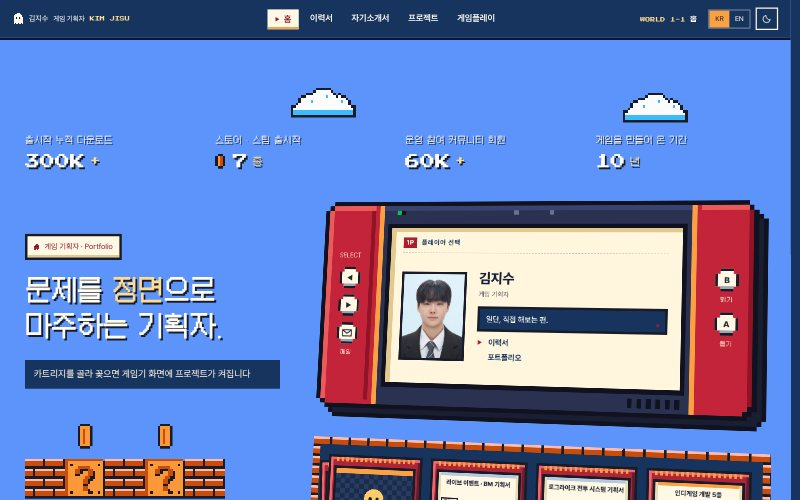
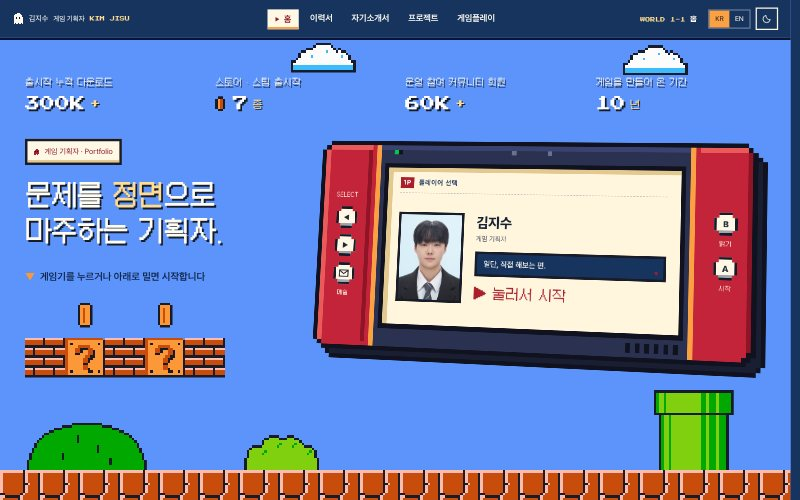
15회차 스테이지 — 홈 = 타이틀 화면, 누르면 게임기가 똑바로 서며 커지고 메뉴 · 카트리지
- 홈(스테이지)은 첫 화면 한 장만: 아래 개요 · 진열판 · 푸터 숨김, 화면 높이에 맞춤, '▶ 눌러서 시작' · 안내 한 줄
- 게임기 누르기 · 아래로 밀기(휠 · 끌기 · 쓸기) · A · ↓ · Enter → 기울기를 풀며 화면 가득 확대(FLIP, 0.98초),
  점수판 · 제목은 흐려지며 사라지고 땅은 따라 내려감
- 게임기 화면 = 페이지 메뉴(이력서 · 자기소개서 · 프로젝트 · 게임플레이 · 연락하기, ▶ 커서, ◀▶/↑↓ · A · B · Esc)
- 아래 진열판에 카트리지가 한 장씩 깔리고, 누르면 커진 게임기에 꽂혀 개요(기존 동작)
- 상태 body[data-lv], 손잡이 키는 window.__lvTitle 에 먼저 물어봄, 모션 최소화면 바로 전환, ko/en
- 회의록 15회차 · CLAUDE.md · 시안 설명(ko/en) · 미리보기 갱신

Claude-Session: https://claude.ai/code/session_01AUp6JzWobjNfSK2Kptzc4x

diff --git a/assets/js/themes/pixel-fc-level.js b/assets/js/themes/pixel-fc-level.js
@@ -111,6 +111,7 @@
   }
   function step(dir) {
     var hero = document.querySelector('.hero.fc-console'); if (!hero) return;
+    if (window.__lvTitle && window.__lvTitle.step(dir)) return;                                       /* 홈 메뉴 화면: 커서 이동 */
     var app = window.PortfolioApp;
     if (hero.querySelector('[data-quip]') && app && app.cycleQuip) { app.cycleQuip(dir); return; }   /* 홈: 한마디 넘기기 */
     var secs = sections(); if (!secs.length) return;                                                  /* 그 밖: 절 이동 */
@@ -121,6 +122,7 @@
   }
   function pressA(kind) {
     if (pending) { if (pending.ready) viewDetail(); return; }        /* 꽂혀 있으면 A = 자세히 보기 */
+    if (window.__lvTitle && window.__lvTitle.a()) return;             /* 홈: 타이틀 = 시작, 메뉴 = 결정 */
     if (kind === 'draw') {
       var deck = document.querySelector('[data-draw]'); if (!deck) return;
       deck.click();
@@ -133,6 +135,7 @@
   }
   function pressB() {
     if (pending) { if (pending.ready) eject(); return; }               /* 꽂혀 있으면 B = 꺼내기 */
+    if (window.__lvTitle && window.__lvTitle.b()) return;             /* 홈 메뉴 화면: B = 처음 화면 */
     var b = document.querySelector('[data-theme-toggle]'); if (b) b.click();
   }
 
@@ -495,6 +498,245 @@
     if (window.MutationObserver) new MutationObserver(update).observe(document.documentElement, { attributes: true, attributeFilter: ['data-skin', 'lang'] });
     window.addEventListener('resize', update);
     if (document.fonts && document.fonts.ready) document.fonts.ready.then(update);
+  }
+  if (document.readyState === 'loading') document.addEventListener('DOMContentLoaded', init); else init();
+})();
+
+/* 15회차 — 홈 = 타이틀 화면. 아래 내용 · 진열판 없이 첫 화면만 두고,
+   게임기를 누르거나 · 아래로 밀거나(휠 · 끌기 · 쓸기) · A · ↓ 를 누르면 기울어 있던 게임기가 똑바로 서며 화면 가득 커지고,
+   게임기 화면에는 페이지 메뉴, 그 아래에는 카트리지(프로젝트 카드)가 놓입니다. B · Esc · 맨 위에서 위로 밀기 = 타이틀로.
+   상태는 body[data-lv="title" | "menu"] 하나(언어 전환으로 main 이 다시 그려져도 유지), 그림은 pixel-fc-folio.css 의 15회차 절.
+   크기가 커지는 연출은 판(.fcs-rig)의 처음 · 나중 상자를 재서 되돌려 그리는 방식(FLIP)이라 글자는 늘 실제 크기로 선명합니다. */
+(function () {
+  'use strict';
+  var SKIN = 'pixel-fc-level';
+  var T = {
+    start:  { ko: '눌러서 시작', en: 'PRESS START' },
+    hint:   { ko: '게임기를 누르거나 아래로 밀면 시작합니다', en: 'Press the console or scroll down to start' },
+    menu:   { ko: '메뉴', en: 'MENU' },
+    title:  { ko: '플레이어 선택', en: 'PLAYER SELECT' },
+    keys:   { ko: '◀ ▶ 고르기 · A 결정 · B 처음 화면', en: '◀ ▶ select · A enter · B title' },
+    navA:   { ko: '페이지 메뉴', en: 'Page menu' },
+    powerA: { ko: '게임기 켜기 — 메뉴 열기', en: 'Power on — open the menu' },
+    goL:    { ko: '시작', en: 'Start' },
+    pickL:  { ko: '결정', en: 'Enter' },
+    pickA:  { ko: '고른 메뉴로 가기', en: 'Open the selected page' },
+    backL:  { ko: '처음', en: 'Title' },
+    backA:  { ko: '처음 화면으로', en: 'Back to the title screen' },
+    lightL: { ko: '밝기', en: 'Light' },
+    lightA: { ko: '다크 · 라이트 전환', en: 'Toggle dark mode' },
+    mail:   { ko: '연락하기', en: 'Contact' },
+    desc: {
+      'resume.html':       { ko: '경력 · 핵심역량 · 인적사항', en: 'Career, skills and profile' },
+      'cover-letter.html': { ko: '함께 일하면 어떤 기획자인지', en: 'What I am like to work with' },
+      'projects.html':     { ko: '게임 · 기획 프로젝트 전체', en: 'Every game and design project' },
+      'play.html':         { ko: '장르별 플레이 기록', en: 'What I play, by genre' }
+    }
+  };
+  var ID = 'matrix3d(1,0,0,0,0,1,0,0,0,0,1,0,0,0,0,1)';
+  var sel = 0, busy = false;
+
+  function lang() {
+    var v = window.PortfolioApp && window.PortfolioApp.getLang ? window.PortfolioApp.getLang() : document.documentElement.getAttribute('lang');
+    return v === 'en' ? 'en' : 'ko';
+  }
+  function t(o) { return (o && (o[lang()] || o.ko)) || ''; }
+  function esc(s) { return String(s).replace(/&/g, '&amp;').replace(/</g, '&lt;').replace(/"/g, '&quot;'); }
+  function reduced() { return !!(window.matchMedia && matchMedia('(prefers-reduced-motion: reduce)').matches); }
+  function on() { return document.documentElement.getAttribute('data-skin') === SKIN && document.body.getAttribute('data-page') === 'home' && !!document.querySelector('.home-screen .fcs-rig .hero'); }
+  function state() { return document.body.getAttribute('data-lv'); }
+  function rig() { return document.querySelector('.home-screen .fcs-rig'); }
+  function items() { return Array.prototype.slice.call(document.querySelectorAll('.lv-msel .lv-mi')); }
+  function inserted() { return !!document.querySelector('.fc-fly, .fc-boot'); }
+
+  /* 게임기 화면에 붙는 것: 타이틀의 '눌러서 시작', 메뉴 화면의 페이지 목록 · 키 안내 */
+  function build() {
+    var info = document.querySelector('.home-screen .fcs-info'); if (!info) return;
+    if (!info.querySelector('.lv-start')) {
+      var st = document.createElement('p'); st.className = 'lv-start'; st.setAttribute('aria-hidden', 'true');
+      info.appendChild(st);
+    }
+    info.querySelector('.lv-start').textContent = '▶ ' + t(T.start);
+    var nav = info.querySelector('.lv-msel');
+    if (!nav) { nav = document.createElement('nav'); nav.className = 'lv-msel'; info.appendChild(nav); }
+    var rows = [];
+    Array.prototype.forEach.call(document.querySelectorAll('.nav__menu .nav__link'), function (a) {
+      var href = a.getAttribute('href') || '', file = href.split('/').pop().split('?')[0];
+      if (!T.desc[file]) return;   /* 홈은 빼고 */
+      rows.push({ href: href, label: a.textContent.trim(), desc: t(T.desc[file]) });
+    });
+    var c = window.PORTFOLIO_CONTENT || {}, mail = ((c.meta && c.meta.email) || '').trim();
+    if (mail) rows.push({ href: 'mailto:' + mail, label: t(T.mail), desc: mail });
+    nav.setAttribute('aria-label', t(T.navA));
+    nav.innerHTML = '<ol>' + rows.map(function (r, i) {
+      return '<li><a class="lv-mi" href="' + esc(r.href) + '" data-i="' + i + '"><b class="lv-mi__t">' + esc(r.label) + '</b><span class="lv-mi__d">' + esc(r.desc) + '</span></a></li>';
+    }).join('') + '</ol><p class="lv-msel__keys" aria-hidden="true">' + esc(t(T.keys)) + '</p>';
+    sel = Math.min(sel, rows.length - 1);
+    mark();
+    var intro = document.querySelector('.home-screen .fcs-intro');
+    if (intro) {
+      var hint = intro.querySelector('.lv-hint');
+      if (!hint) { hint = document.createElement('p'); hint.className = 'lv-hint'; intro.appendChild(hint); }
+      hint.textContent = t(T.hint);
+    }
+  }
+  function mark() {
+    items().forEach(function (a, i) { a.parentNode.classList.toggle('is-sel', i === sel); });
+  }
+  function label(which, text, aria) {
+    var l = document.querySelector('[data-fc-lbl="' + which + '"]'), k = document.querySelector(which === 'a' ? '[data-fc-a]' : '[data-fc-b]');
+    if (l) { l.textContent = text; l.setAttribute('data-orig', text); }   /* 카트리지를 뺄 때 이 글자로 돌아오도록 data-orig 도 */
+    if (k) k.setAttribute('aria-label', aria);
+  }
+  /* 상태에 맞춰 글자 · 접근성 속성을 맞춤 (그림은 CSS) */
+  function apply() {
+    var st = state(), hero = document.querySelector('.home-screen .fcs-rig .hero');
+    var bar = document.querySelector('.home-screen .gui-scr__t');
+    if (bar) bar.textContent = t(st === 'menu' ? T.menu : T.title);
+    if (hero) {
+      if (st === 'title') { hero.setAttribute('tabindex', '0'); hero.setAttribute('role', 'button'); hero.setAttribute('aria-label', t(T.powerA)); }
+      else { hero.removeAttribute('tabindex'); hero.removeAttribute('role'); hero.removeAttribute('aria-label'); }
+    }
+    if (st === 'menu') { label('a', t(T.pickL), t(T.pickA)); label('b', t(T.backL), t(T.backA)); }
+    else { label('a', t(T.goL), t(T.powerA)); label('b', t(T.lightL), t(T.lightA)); }
+    var nav = document.querySelector('.nav-wrap') || document.querySelector('.nav');   /* 위에 붙은 상단바 높이 — 첫 화면을 한 화면에 맞추는 데 씀 */
+    document.documentElement.style.setProperty('--lv-nav', (nav ? Math.round(nav.getBoundingClientRect().height) : 64) + 'px');
+  }
+
+  /* 판의 실제 상자(기울기를 뺀) */
+  function box(el) { var keep = el.style.transform; el.style.transform = 'none'; var r = el.getBoundingClientRect(); el.style.transform = keep; return r; }
+  function go(next) {
+    if (busy || state() === next || inserted()) return;
+    var r = rig(); if (!r) return;
+    var anim = !reduced() && !!r.animate && window.innerWidth >= 900;
+    window.scrollTo(0, 0);
+    var oldT = getComputedStyle(r).transform, before = box(r), origin = getComputedStyle(r).transformOrigin.split(' ').map(parseFloat);
+    /* 메뉴로 갈 때 사라지는 점수판 · 제목은 그 자리에 붙잡아 두고 흐리게(아래 판이 위로 당겨져도 튀지 않게) */
+    var pinned = [], fades = [];
+    if (anim && next === 'menu') {
+      Array.prototype.forEach.call(document.querySelectorAll('.home-screen > .lv-hud, .home-screen .fcs-intro'), function (el) {
+        var b = el.getBoundingClientRect();
+        el.style.cssText += ';position:fixed;left:' + b.left + 'px;top:' + b.top + 'px;width:' + b.width + 'px;margin:0;z-index:0;display:' + getComputedStyle(el).display;
+        pinned.push(el);
+      });
+    }
+    document.body.classList.add('lv-moving');
+    document.body.setAttribute('data-lv', next);
+    apply();
+    var done = function () {
+      busy = false;
+      pinned.forEach(function (el) { ['position', 'left', 'top', 'width', 'margin', 'z-index', 'display'].forEach(function (k) { el.style.removeProperty(k); }); });
+      fades.forEach(function (f) { f.cancel(); });
+      document.body.classList.remove('lv-moving');
+      if (next === 'menu') {
+        var deck = document.querySelector('[data-draw]'); if (deck) deck.click();   /* 카트리지를 한 장씩 깔아 놓음 */
+        var first = items()[sel]; if (first) { try { first.focus({ preventScroll: true }); } catch (e) {} }
+      } else {
+        var h = document.querySelector('.home-screen .fcs-rig .hero'); if (h) { try { h.focus({ preventScroll: true }); } catch (e) {} }
+      }
+    };
+    if (!anim) { done(); return; }
+    busy = true;
+    var newT = getComputedStyle(r).transform, after = box(r);
+    /* 처음 상자의 기준점(transform-origin)이 나중 상자의 기준점에 오도록 옮기고, 폭 비율만큼 줄여 처음 모습에서 출발 */
+    var fx = origin[0] / after.width, fy = origin[1] / after.height;
+    var dx = (before.left + before.width * fx) - (after.left + after.width * fx);
+    var dy = (before.top + before.height * fy) - (after.top + after.height * fy);
+    var s = before.width / after.width;
+    var a = r.animate([
+      { transform: 'translate(' + dx + 'px,' + dy + 'px) scale(' + s + ') ' + (oldT === 'none' ? ID : oldT) },
+      { transform: 'translate(0px,0px) scale(1) ' + (newT === 'none' ? ID : newT) }
+    ], { duration: 980, easing: 'cubic-bezier(.65,0,.35,1)' });   /* 천천히 들어 올려 똑바로 세운 뒤 내려놓듯 */
+    if (next === 'menu') pinned.forEach(function (el) { fades.push(el.animate([{ opacity: 1, translate: '0 0' }, { opacity: 0, translate: '0 -24px' }], { duration: 360, easing: 'ease-in', fill: 'forwards' })); });
+    a.onfinish = a.oncancel = done;
+  }
+  function move(dir) {
+    var list = items(); if (!list.length) return;
+    sel = (sel + dir + list.length) % list.length; mark();
+    try { list[sel].focus({ preventScroll: true }); } catch (e) {}
+  }
+
+  /* 기존 손잡이 키(pixel-fc-level.js 위쪽)가 먼저 물어봄 — 처리했으면 true */
+  window.__lvTitle = {
+    step: function (dir) { if (!on() || state() !== 'menu') return false; move(dir); return true; },
+    a: function () {
+      if (!on()) return false;
+      if (state() === 'title') { go('menu'); return true; }
+      var it = items()[sel]; if (it) it.click(); return true;
+    },
+    b: function () { if (!on() || state() !== 'menu') return false; go('title'); return true; }
+  };
+
+  /* 게임기 누르기(손잡이 키 · 메일 키는 제 기능 그대로) */
+  document.addEventListener('click', function (e) {
+    if (!on() || state() !== 'title' || !e.target.closest) return;
+    var hero = e.target.closest('.home-screen .fcs-rig .hero'); if (!hero) return;
+    if (e.target.closest('.fc-key, .fc-ab, .fc-grip a')) return;
+    e.preventDefault(); e.stopPropagation(); go('menu');
+  }, true);
+  document.addEventListener('mouseover', function (e) {
+    if (!on() || state() !== 'menu' || !e.target.closest) return;
+    var a = e.target.closest('.lv-mi'); if (a) { sel = +a.getAttribute('data-i') || 0; mark(); }
+  });
+  document.addEventListener('focusin', function (e) {
+    var a = e.target.closest && e.target.closest('.lv-mi'); if (a) { sel = +a.getAttribute('data-i') || 0; mark(); }
+  });
+  document.addEventListener('keydown', function (e) {
+    if (!on() || e.altKey || e.ctrlKey || e.metaKey || inserted()) return;
+    var tag = (e.target.tagName || '').toLowerCase(); if (tag === 'input' || tag === 'textarea' || tag === 'select') return;
+    var st = state(), onHero = e.target.closest && e.target.closest('.home-screen .fcs-rig .hero');
+    if (st === 'title') {
+      if (e.key === 'ArrowDown' || e.key === 'PageDown' || ((e.key === 'Enter' || e.key === ' ') && (onHero || e.target === document.body))) { e.preventDefault(); go('menu'); }
+      return;
+    }
+    if (e.key === 'Escape') { e.preventDefault(); go('title'); return; }
+    var inMenu = e.target.closest && e.target.closest('.lv-msel');
+    if (inMenu || e.target === document.body) {
+      if (e.key === 'ArrowDown' || e.key === 'ArrowRight') { e.preventDefault(); move(1); }
+      else if (e.key === 'ArrowUp' || e.key === 'ArrowLeft') { e.preventDefault(); move(-1); }
+    }
+  });
+  /* 아래로 밀기: 휠 · 손가락 쓸기 · 마우스 끌기. 타이틀은 페이지 맨 아래(보통 한 화면이라 곧바로)에서만, 메뉴 → 타이틀은 맨 위에서 위로 밀 때만 */
+  function atBottom() { return window.scrollY + window.innerHeight >= document.documentElement.scrollHeight - 2; }
+  window.addEventListener('wheel', function (e) {
+    if (!on() || inserted()) return;
+    if (busy) { e.preventDefault(); return; }
+    if (state() === 'title' && e.deltaY > 6 && atBottom()) { e.preventDefault(); go('menu'); }
+    else if (state() === 'menu' && e.deltaY < -6 && window.scrollY <= 0) { e.preventDefault(); go('title'); }
+  }, { passive: false });
+  var ty = null, tb = false;
+  window.addEventListener('touchstart', function (e) { if (on() && state() === 'title') { ty = e.touches[0].clientY; tb = atBottom(); } }, { passive: true });
+  window.addEventListener('touchend', function (e) {
+    if (ty === null || !on()) return;
+    var dy = ty - (e.changedTouches[0] || {}).clientY; ty = null;
+    if (state() === 'title' && tb && dy > 50) go('menu');
+  }, { passive: true });
+  var py = null;
+  document.addEventListener('pointerdown', function (e) {
+    if (e.pointerType !== 'mouse' || !on() || state() !== 'title' || !e.target.closest || !e.target.closest('.home-screen')) return;
+    if (e.target.closest('a, button, input')) return;
+    py = e.clientY;
+  });
+  document.addEventListener('pointerup', function (e) {
+    if (py === null) return; var dy = py - e.clientY; py = null;
+    if (dy > 60 && on() && state() === 'title') go('menu');
+  });
+
+  function scan() {
+    if (!on()) { document.body.removeAttribute('data-lv'); return; }
+    if (!state()) document.body.setAttribute('data-lv', 'title');
+    build(); apply();
+  }
+  var queued = false;
+  function later() { if (queued) return; queued = true; requestAnimationFrame(function () { queued = false; scan(); }); }
+  function init() {
+    scan();
+    var main = document.querySelector('[data-slot="main"]');
+    if (main && window.MutationObserver) new MutationObserver(later).observe(main, { childList: true });
+    var navs = document.querySelector('[data-slot="nav"]');
+    if (navs && window.MutationObserver) new MutationObserver(later).observe(navs, { childList: true });
+    if (window.MutationObserver) new MutationObserver(later).observe(document.documentElement, { attributes: true, attributeFilter: ['data-skin', 'lang'] });
+    window.addEventListener('resize', apply);
   }
   if (document.readyState === 'loading') document.addEventListener('DOMContentLoaded', init); else init();
 })();

diff --git a/assets/css/themes/pixel-fc-folio.css b/assets/css/themes/pixel-fc-folio.css
@@ -770,6 +770,86 @@
   :root[data-skin-theme="pixel"][data-skin="pixel-fc-level"] main > .fcs-stage::after { background-position: 0 100%, 100% 100%; }
 }
 
+/* ── 15회차: 홈 = 타이틀 화면 → 게임기가 똑바로 서며 커지는 메뉴 화면 ──────────────
+   상태는 pixel-fc-level.js 맨 아래 블록이 body[data-lv] 에 적습니다(홈에서만).
+     title : 첫 화면 한 장(점수판 · 제목 · 기울어진 게임기 · 지면). 아래 내용 · 진열판 · 푸터 없음. 게임기 화면에 '눌러서 시작'.
+     menu  : 제목 · 점수판은 사라지고 게임기가 기울기 없이 화면 가득, 화면에 페이지 메뉴, 그 아래 카트리지 진열판.
+   크기 · 기울기 변화는 JS 가 판(.fcs-rig)을 FLIP 으로 움직이고, CSS 는 두 상태의 최종 모습만 정합니다. */
+@property --lv-surface { syntax: '<length>'; inherits: true; initial-value: 620px; }
+:root[data-skin-theme="pixel"][data-skin="pixel-fc-level"] body[data-lv] main { padding-top: var(--lv-nav, 64px); padding-bottom: 128px; transition: --lv-surface .98s cubic-bezier(.65,0,.35,1); }
+:root[data-skin-theme="pixel"][data-skin="pixel-fc-level"] body[data-lv] main::after { content: none; }
+:root[data-skin-theme="pixel"][data-skin="pixel-fc-level"] body[data-lv] :is(.lv-menu, .footer) { display: none; }
+:root[data-skin-theme="pixel"][data-skin="pixel-fc-level"] body[data-lv] .home-screen { display: flex; flex-direction: column; min-height: calc(100svh - var(--lv-nav, 64px) - 128px); }
+/* 한 화면에 들어가도록 첫 화면 여백을 줄임(점수판 · 판 · 제목 칸) — 구름은 점수판 위 띠에 */
+:root[data-skin-theme="pixel"][data-skin="pixel-fc-level"] body[data-lv] .home-screen > .lv-hud { padding-top: 60px; }
+:root[data-skin-theme="pixel"][data-skin="pixel-fc-level"] body[data-lv] .home-screen::before { background-position: 40% 4px, 86% 8px; }
+:root[data-skin-theme="pixel"][data-skin="pixel-fc-level"] body[data-lv="title"] .fcs-stage--home { padding: 12px 0 20px; }
+@media (min-width: 900px) {
+  :root[data-skin-theme="pixel"][data-skin="pixel-fc-level"] body[data-lv="title"] .fcs-intro { padding-top: 8px; }
+  :root[data-skin-theme="pixel"][data-skin="pixel-fc-level"] body[data-lv="title"] .fcs-stage--home .fcs-intro::after { margin-top: 28px; }
+}
+:root[data-skin-theme="pixel"][data-skin="pixel-fc-level"] body[data-lv] .home-screen::after { transition: opacity .3s .1s; }
+:root[data-skin-theme="pixel"][data-skin="pixel-fc-level"] body.lv-moving .home-screen::after { opacity: 0; transition: none; }
+:root[data-skin-theme="pixel"][data-skin="pixel-fc-level"] body[data-lv] .home-screen > .fcs-stage { margin-block: auto; }
+
+/* 타이틀 */
+:root[data-skin-theme="pixel"][data-skin="pixel-fc-level"] body[data-lv="title"] .fcs-rig > .draw,
+:root[data-skin-theme="pixel"][data-skin="pixel-fc-level"] body[data-lv="title"] .fcs-intro .fcs-caption,
+:root[data-skin-theme="pixel"][data-skin="pixel-fc-level"] body[data-lv="title"] .fcs-info :is(.btn-row, .quip__more) { display: none; }
+:root[data-skin-theme="pixel"][data-skin="pixel-fc-level"] body[data-lv] .fcs-intro { transition: opacity .35s .25s, visibility 0s 0s; }
+:root[data-skin-theme="pixel"][data-skin="pixel-fc-level"] body[data-lv="title"] .fcs-rig > .hero { cursor: pointer; transition: translate .2s steps(2, end); }
+:root[data-skin-theme="pixel"][data-skin="pixel-fc-level"] body[data-lv="title"] .fcs-rig > .hero:is(:hover, :focus-visible) { translate: 0 -8px; }
+:root[data-skin-theme="pixel"][data-skin="pixel-fc-level"] body[data-lv="title"] .fcs-rig > .hero:focus-visible { outline: 4px solid #fc9838; outline-offset: 6px; }
+:root[data-skin-theme="pixel"][data-skin="pixel-fc-level"] .lv-start, :root[data-skin-theme="pixel"][data-skin="pixel-fc-level"] .lv-msel { display: none; }
+:root[data-skin-theme="pixel"][data-skin="pixel-fc-level"] body[data-lv="title"] .lv-start {
+  display: block; margin: 14px 0 0; font: 400 22px/1.3 'Galmuri11', var(--font-display); letter-spacing: 0; color: var(--gui-scr-cursor);
+  animation: gui-blink 1.1s steps(1, end) infinite;
+}
+:root[data-skin-theme="pixel"][data-skin="pixel-fc-level"] .lv-hint { margin: 28px 0 0; font: 600 16px/1.6 var(--font-sans); letter-spacing: 0; color: var(--gui-sky-ink); }
+:root[data-skin-theme="pixel"][data-skin="pixel-fc-level"] .lv-hint::before { content: '▼' / ''; display: inline-block; margin-right: 8px; color: #fc9838; animation: gui-bob 1s steps(2, end) infinite; }
+:root[data-skin-theme="pixel"][data-skin="pixel-fc-level"] body[data-lv="menu"] .lv-hint { display: none; }
+@media (min-width: 900px) {
+  :root[data-skin-theme="pixel"][data-skin="pixel-fc-level"] body[data-lv="title"] .fcs-stage--home { align-items: center; }
+}
+
+/* 메뉴 화면 */
+:root[data-skin-theme="pixel"][data-skin="pixel-fc-level"] body[data-lv="menu"] .home-screen > .lv-hud { display: none; }
+:root[data-skin-theme="pixel"][data-skin="pixel-fc-level"] body[data-lv="menu"] .fcs-stage--home { display: block; width: 100%; max-width: none; padding: 24px 0 40px; margin-block: 0; }
+:root[data-skin-theme="pixel"][data-skin="pixel-fc-level"] body[data-lv="menu"] .fcs-intro {
+  position: absolute; top: 0; left: max(var(--gutter), calc((100% - var(--folio-max)) / 2)); width: min(40%, 460px);
+  opacity: 0; visibility: hidden; pointer-events: none; transition: opacity .25s, visibility 0s .25s;
+}
+:root[data-skin-theme="pixel"][data-skin="pixel-fc-level"] body[data-lv="menu"] .fcs-rig { margin-inline: auto; }
+@media (min-width: 900px) {
+  :root[data-skin-theme="pixel"][data-skin="pixel-fc-level"] body[data-lv="menu"] .fcs-rig { transform: none; width: min(92vw, calc((100svh - var(--lv-nav, 64px) - 56px) * 1.48), 1380px); }
+}
+:root[data-skin-theme="pixel"][data-skin="pixel-fc-level"] body[data-lv="menu"] .fcs-rig > .draw { width: min(100%, 820px); margin: 40px auto 0; animation: lv-tray-in .45s .85s both; }
+@keyframes lv-tray-in { from { opacity: 0; translate: 0 40px; } to { opacity: 1; translate: 0 0; } }
+:root[data-skin-theme="pixel"][data-skin="pixel-fc-level"] body[data-lv="menu"] .fcs-info :is(.quip, .quip__more, .btn-row, .lv-start, .portrait__cap) { display: none; }   /* 이름은 화면 머리띠 · 상단바에 있으니 메뉴에 자리를 줌 */
+:root[data-skin-theme="pixel"][data-skin="pixel-fc-level"] body[data-lv="menu"] .lv-msel { display: block; margin-top: 0; animation: lv-screen-on .32s steps(4, end) both; }
+@keyframes lv-screen-on { 0% { opacity: 0; } 50% { opacity: .4; } 75% { opacity: .15; } 100% { opacity: 1; } }
+:root[data-skin-theme="pixel"][data-skin="pixel-fc-level"] .lv-msel ol { display: grid; gap: 4px; margin: 0; padding: 0; list-style: none; }
+:root[data-skin-theme="pixel"][data-skin="pixel-fc-level"] .lv-msel li { position: relative; margin: 0; padding: 0 0 0 30px; }
+:root[data-skin-theme="pixel"][data-skin="pixel-fc-level"] .lv-msel li.is-sel::before {
+  content: '▶' / ''; position: absolute; left: 4px; top: 6px; font: 400 16px/1 var(--font-sans); color: var(--gui-scr-cursor);
+  animation: gui-blink 1.1s steps(1, end) infinite;
+}
+:root[data-skin-theme="pixel"][data-skin="pixel-fc-level"] .lv-mi { display: flex; flex-wrap: wrap; align-items: baseline; gap: 2px 14px; padding: 2px 0; color: var(--gui-scr-ink); text-decoration: none; }
+:root[data-skin-theme="pixel"][data-skin="pixel-fc-level"] .lv-mi__t { font: 400 28px/1.25 var(--font-display); letter-spacing: 0; }   /* Galmuri14 = 14 의 배수 */
+:root[data-skin-theme="pixel"][data-skin="pixel-fc-level"] .lv-mi__d { font: 500 15px/1.4 var(--font-sans); letter-spacing: 0; color: color-mix(in srgb, var(--gui-scr-ink) 72%, transparent); }
+:root[data-skin-theme="pixel"][data-skin="pixel-fc-level"] .lv-msel li.is-sel .lv-mi__t { color: var(--gui-scr-cursor); }
+:root[data-skin-theme="pixel"][data-skin="pixel-fc-level"] .lv-mi:focus-visible { outline: 3px dashed var(--gui-scr-cursor); outline-offset: 3px; }
+:root[data-skin-theme="pixel"][data-skin="pixel-fc-level"] .lv-msel__keys { margin: 12px 0 0; padding-top: 10px; border-top: 2px dashed var(--gui-scr-rule); font: 600 13px/1.4 var(--font-sans); letter-spacing: .02em; color: var(--gui-scr-ink); }
+@media (max-width: 899px) {
+  :root[data-skin-theme="pixel"][data-skin="pixel-fc-level"] .lv-mi__t { font: 400 22px/1.3 'Galmuri11', var(--font-display); }
+  :root[data-skin-theme="pixel"][data-skin="pixel-fc-level"] .lv-mi__d { font-size: 13px; }
+  :root[data-skin-theme="pixel"][data-skin="pixel-fc-level"] body[data-lv="title"] .lv-start { font-size: 22px; }
+}
+@media (prefers-reduced-motion: reduce) {
+  :root[data-skin-theme="pixel"][data-skin="pixel-fc-level"] body[data-lv] :is(.lv-start, .lv-msel li.is-sel)::before, :root[data-skin-theme="pixel"][data-skin="pixel-fc-level"] body[data-lv="title"] .lv-start, :root[data-skin-theme="pixel"][data-skin="pixel-fc-level"] .lv-hint::before { animation: none; }
+  :root[data-skin-theme="pixel"][data-skin="pixel-fc-level"] body[data-lv="menu"] :is(.fcs-rig > .draw, .lv-msel) { animation: none; }
+}
+
 /* ============================================================================
    랠리 프린트 (pixel-fc-rally) — 빨강 8px 윗띠 + 검은 2px 테 + 노랑 판화 그림자의 인쇄 판,
    이름표 = 사선으로 자른 검은 판(글자는 곧게) + 노랑 줄 · 업적 태그 = 검은 칩 · 구분선 = 가는 인쇄 선

diff --git a/assets/js/themes.js b/assets/js/themes.js
@@ -125,8 +125,8 @@
           fonts: [G + 'Black+Han+Sans&family=Do+Hyeon'],
           swatch: ['#c9a678', '#f3ead6', '#a3203a', '#1d1d1b'] },
         { id: 'fc-level', name: { ko: '패미컴 · 스테이지', en: 'Famicom · Stage' },
-          desc: { ko: '참고 그림 ⑩. 슈퍼 마리오 브라더스 1-1 · 1-2 의 그림 문법(원작 팔레트 묶음 · 같은 칸 크기 · 검은 외곽선)을 따른 한 스테이지 — 화면 맨 위 점수판, 구름 · 떠 있는 물음표 블록, 땅 블록 지면 위 언덕 · 덤불 · 관, 그 아래 검은 지하의 메뉴 화면 창과 파란 지하 땅 블록 바닥.',
-                  en: 'Reference ⑩: one stage following the visual grammar of Super Mario Bros. 1-1 and 1-2 (the original palette groups, one pixel size, black outlines) — a score HUD across the top, clouds and floating question blocks, hills, bushes and a pipe on ground blocks, then pause-menu windows in a black underground over a blue underground-block floor.' },
+          desc: { ko: '참고 그림 ⑩. 슈퍼 마리오 브라더스 1-1 · 1-2 의 그림 문법을 따른 한 스테이지. 홈은 타이틀 화면 한 장 — 게임기를 누르거나 아래로 밀면 기울었던 게임기가 똑바로 서며 화면 가득 커지고, 화면에 페이지 메뉴 · 그 아래 카트리지가 놓입니다.',
+                  en: 'Reference ⑩: one stage following the visual grammar of Super Mario Bros. 1-1 and 1-2. Home is a single title screen — press the console or scroll down and the tilted console straightens and zooms to fill the screen, showing a page menu with cartridges laid out below.' },
           scripts: ['js/themes/pixel-fc-level.js', 'js/themes/fc-stage.js', 'js/themes/fc-body.js'],
           css: ['css/themes/pixel-fc-folio.css'],
           swatch: ['#5c94fc', '#c84c0c', '#fca044', '#00a800'] },

diff --git a/CLAUDE.md b/CLAUDE.md
@@ -85,7 +85,7 @@
   랠리 = 빨강 8px 윗띠 + 검은 2px 테 + 노랑 판화 그림자 · 사선으로 자른 검은 이름표 + 노랑 줄 · 업적 태그는 검은 칩.
 - **스테이지 땅 위 · 땅 밑(12회차)**: 하늘은 첫 화면(하위 페이지는 페이지 머리)까지만이고, 그 아래는 지면(슈퍼 마리오 브라더스의 **땅 블록** 두 단) → 검은 지하가 푸터까지 이어집니다.
   지면 높이는 `pixel-fc-level.js` 맨 아래 블록이 재서 `main` 의 `--lv-surface` 로 넣고(첫 화면 `.home-screen`/`.fcs-stage` 아래, 없으면 첫 절 머리 아래 + 144px — 그 사이 128px 띠에 언덕 · 덤불 · 관, 상세는 0),
-  `main::before` 가 그립니다. 홈은 같은 블록이 개요 절들을 `.lv-menu` 하나에 담아 위 줄 퀘스트(7) + 인벤토리(5), 아래 줄 업적(7) + 저장 슬롯(5) 메뉴 화면으로 놓습니다.
+  `main::before` 가 그립니다. 홈은 같은 블록이 개요 절들을 `.lv-menu` 하나에 담아 위 줄 퀘스트(7) + 인벤토리(5), 아래 줄 업적 · 저장 슬롯(각자 한 줄 전체)으로 놓습니다(15회차부터 홈에서는 숨김 — 아래 타이틀 화면).
   지하의 창 밖 글자는 밝은 토큰(`--lv-under-*`), 하늘 위 페이지 머리만 남색입니다. 하위 페이지는 인적사항 두 단 · 핵심역량 한 줄 · 경력 날짜 칸 | 내용 · 자기소개서 2 × 2.
 - **스테이지 월드 문법(13회차)**: 첫 화면 맨 위 점수판(이력서 숫자 줄을 `pixel-fc-level.js` 의 `hud()` 가 `.home-screen` 맨 앞으로 옮김, `.lv-hud`) ·
   구름 둘(`.home-screen::before`) · 제목 밑 떠 있는 벽돌 · 물음표 블록 + 동전(`.fcs-intro::after`, 900px 이상) · 지면 위 언덕 · 덤불 · 관(`.home-screen::after`) ·
@@ -98,6 +98,11 @@
 - **스테이지 본문 시인성(14회차)**: 창은 땅 블록이 다 어두워진 뒤의 검정 위에서 시작합니다(지면 그라데이션 112 → 216px, 홈 `.lv-menu` 위 여백 200px,
   하위 페이지 첫 절 머리 아래 336px — `pixel-fc-level.js` 의 지면 = 머리 아래 144px 과 짝). 본문 16px / 1.75 · 항목 이름 20~22px · 작은 이름표 13~15px 굵게,
   흐린 글자 `--level-panel-muted` #3d4050(다크 #dfe5f0). 좁은 칸에 글을 나란히 놓지 않습니다 — 홈 업적 · 저장 슬롯은 한 줄 전체, 이력서 핵심역량은 한 장 = 한 줄(이름 | 설명 | 로고).
+- **스테이지 홈 = 타이틀 화면(15회차)**: 홈에서는 아래 개요(`.lv-menu`) · 진열판 · 푸터를 숨기고 첫 화면 한 장(점수판 · 제목 · 기울어진 게임기 · 지면)만 둡니다.
+  게임기를 누르거나 · 아래로 밀거나(휠 · 마우스 끌기 · 손가락 쓸기 — 페이지 맨 아래에서만) · A · ↓ · Enter 를 누르면 게임기가 기울기 없이 똑바로 서며 화면 가득 커지고(FLIP — 판 `.fcs-rig` 의 처음 · 나중 상자를 재서 되돌려 그림),
+  게임기 화면에는 페이지 메뉴(`.lv-msel`, 상단바 링크 + 연락하기 · ◀ ▶ / ↑ ↓ 고르기 · A 결정 · B · Esc · 맨 위에서 위로 밀기 = 타이틀), 그 아래 진열판에 카트리지가 깔립니다(덱을 눌러 뽑기 연출).
+  상태는 `body[data-lv="title" | "menu"]` 하나(홈 · 스테이지에서만, 언어 전환에도 유지)이고 코드는 `pixel-fc-level.js` 맨 아래 블록 · 그림은 `pixel-fc-folio.css` 15회차 절입니다.
+  손잡이 키는 위쪽 `step` · `pressA` · `pressB` 가 `window.__lvTitle` 에 먼저 물어봅니다. 메뉴 설명 문구는 같은 블록의 `T.desc`(ko/en). 모션 최소화면 바로 바뀝니다.
 - **랠리는 기울임꼴을 쓰지 않습니다** — 한글 글꼴에는 기울임 꼴이 없어 브라우저가 억지로 눕힌 가짜 이탤릭이 됩니다. 사선은 `clip-path` 로 상자 모양에만(글자까지 눕히는 `skewX` 금지).
 - `:is()` 안에는 가상 요소(`::before` 등)를 넣을 수 없습니다 — 넣으면 규칙 전체가 무시되니 `…::before, …::after` 로 따로 적으세요.
 
